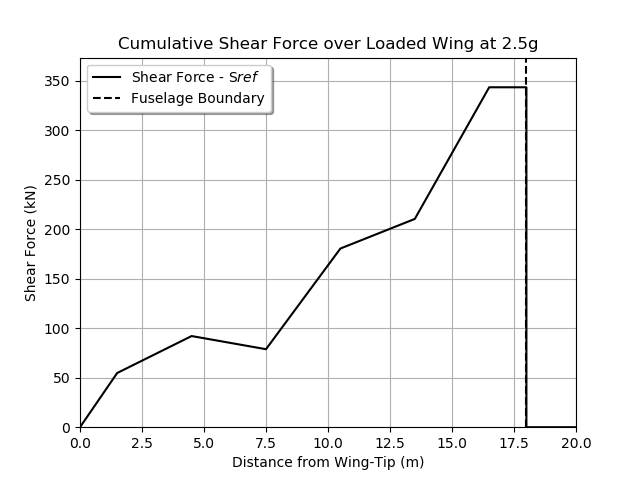
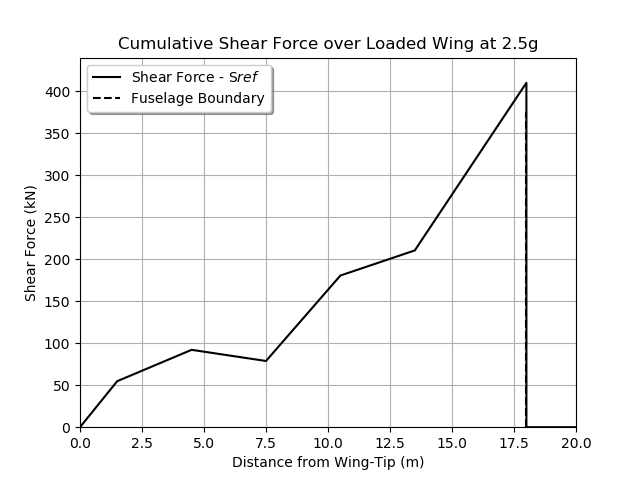
Fix gradient calculations

diff --git a/extraGraphs.py b/extraGraphs.py
@@ -7,20 +7,22 @@ tref = [0, 2.312783988, 6.13595752, -215.4845505, -207.5078057, -499.9967706, -4
 
 wingtipdistance = [0, 1.5, 4.5, 7.5, 10.5, 13.5, 16.5, 18, 18, 20]
 
-srefLastGrad = sref[-1]/sref[-2]
-srefEnd6 = sref[-1] + (wingtipdistance[-2] - wingtipdistance[-3])*srefLastGrad
+srefLastGrad = (sref[-1]-sref[-2])/(wingtipdistance[-4]-wingtipdistance[-5])
+print(srefLastGrad)
+srefEnd6 = sref[-1] + (wingtipdistance[-3] - wingtipdistance[-4])*srefLastGrad
+print(srefEnd6)
 sref.append(srefEnd6)
 sref.append(0)
 sref.append(0)
 
-mrefLastGrad = mref[-1]/mref[-2]
-mrefEnd6 = mref[-1] + (wingtipdistance[-2] - wingtipdistance[-3])*mrefLastGrad
+mrefLastGrad = (mref[-1]-mref[-2])/(wingtipdistance[-4]-wingtipdistance[-5])
+mrefEnd6 = mref[-1] + (wingtipdistance[-3] - wingtipdistance[-4])*mrefLastGrad
 mref.append(mrefEnd6)
 mref.append(mrefEnd6)
 mref.append(mrefEnd6)
 
-trefLastGrad = tref[-1]/tref[-2]
-trefEnd6 = tref[-1] + (wingtipdistance[-2] - wingtipdistance[-3])*trefLastGrad
+trefLastGrad = (tref[-1]-tref[-2])/(wingtipdistance[-4]-wingtipdistance[-5])
+trefEnd6 = tref[-1] + (wingtipdistance[-3] - wingtipdistance[-4])*trefLastGrad
 tref.append(trefEnd6)
 tref.append(trefEnd6)
 tref.append(trefEnd6)
